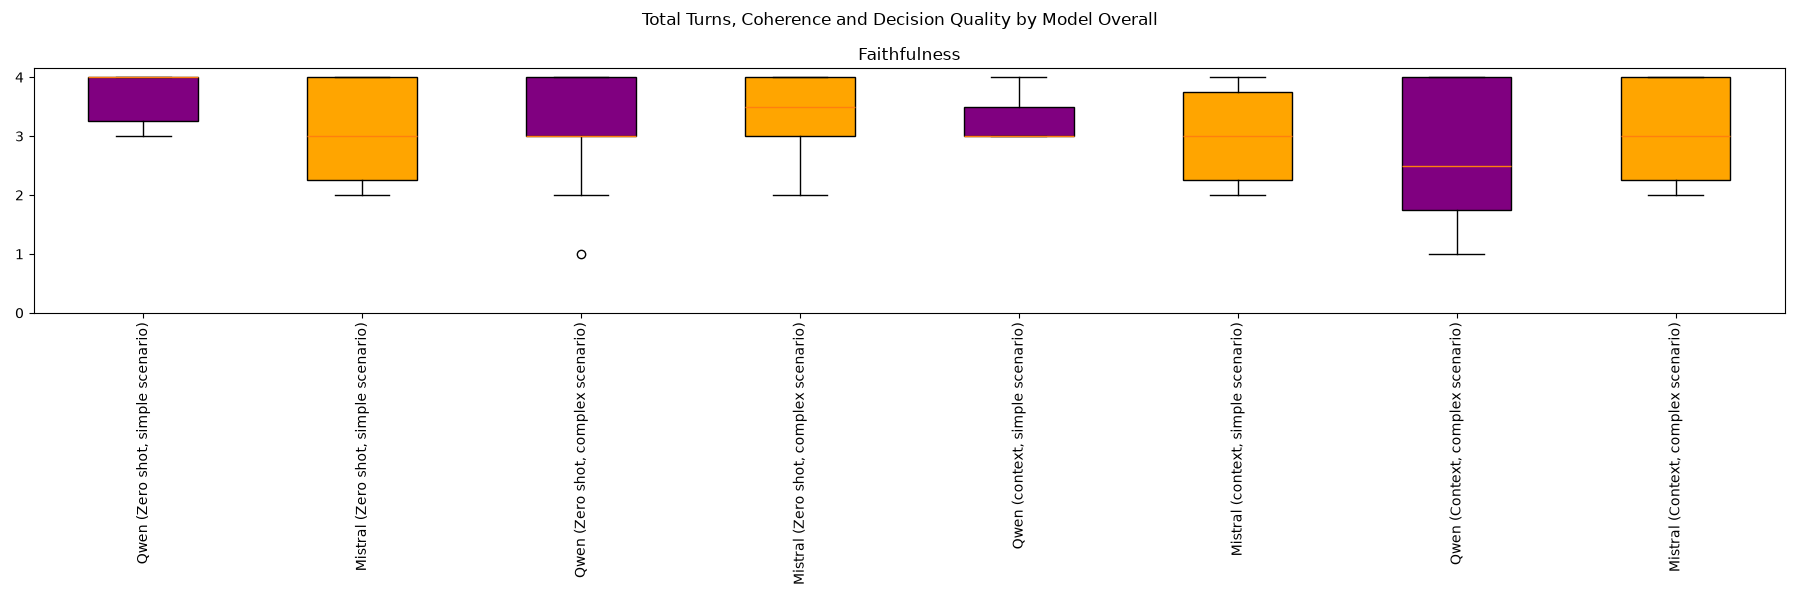
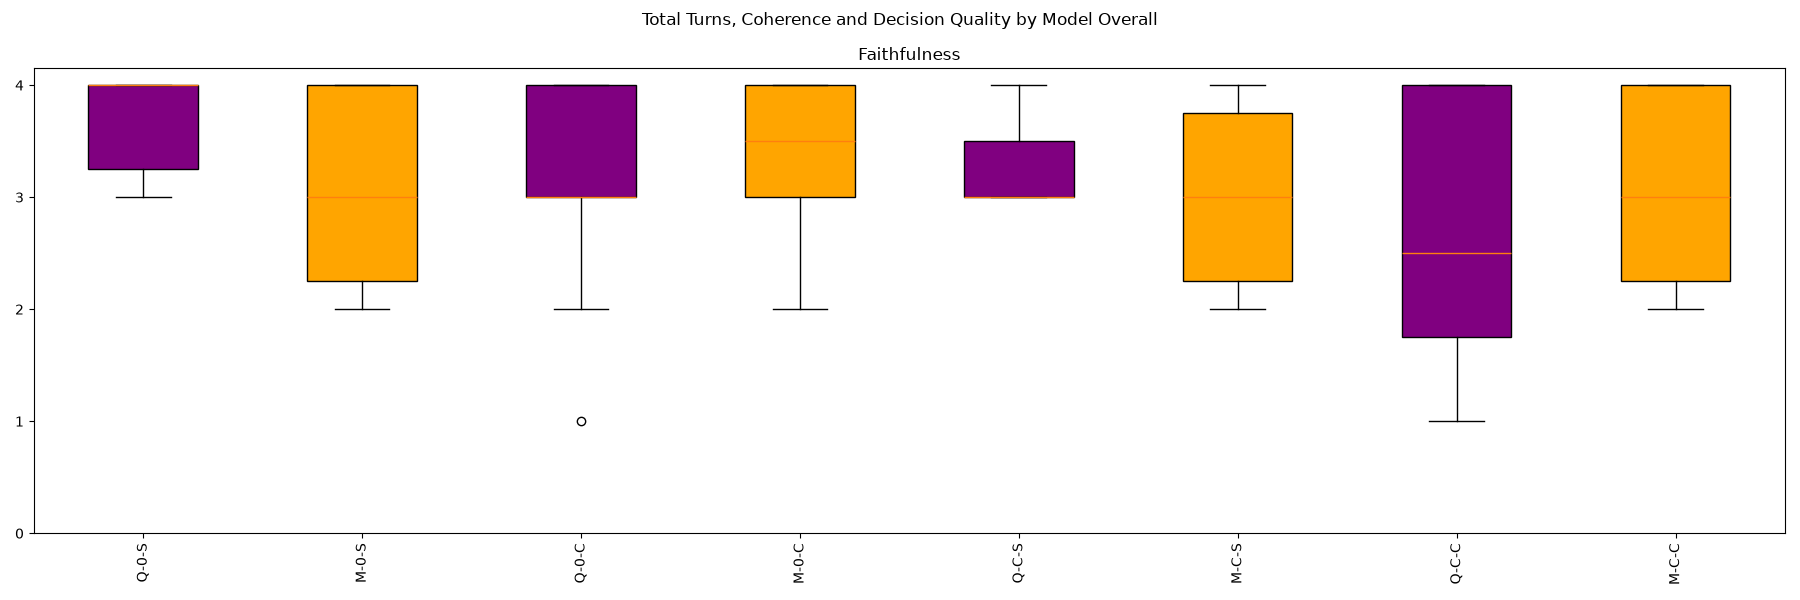
Updated number of turns with coding structure

diff --git a/number_turns.py b/number_turns.py
@@ -31,10 +31,11 @@ print(turn_count_reasoning)
 fig, ax = plt.subplots(figsize=(18,6))
 
 
+labels = ["Q-0-S", "M-0-S", "Q-0-C", "M-0-C", "Q-C-S", "M-C-S", "Q-C-C", "M-C-C"]
 
 
 # Row one
-ax1 = ax.boxplot([turn_count_reasoning.loc[(turn_count_reasoning["Scenario"] == "Simple") & (turn_count_reasoning["Strategy"] == "Zero")]["Total Turns"], turn_count_non_reasoning.loc[(turn_count_non_reasoning["Scenario"] == "Simple") & (turn_count_non_reasoning["Strategy"] == "Zero")]["Total Turns"], turn_count_reasoning.loc[(turn_count_reasoning["Scenario"] == "Complex") & (turn_count_reasoning["Strategy"] == "Zero")]["Total Turns"], turn_count_non_reasoning.loc[(turn_count_non_reasoning["Scenario"] == "Complex") & (turn_count_non_reasoning["Strategy"] == "Zero")]["Total Turns"], turn_count_reasoning.loc[(turn_count_reasoning["Scenario"] == "Simple") & (turn_count_reasoning["Strategy"] == "Context")]["Total Turns"], turn_count_non_reasoning.loc[(turn_count_non_reasoning["Scenario"] == "Simple") & (turn_count_non_reasoning["Strategy"] == "Context")]["Total Turns"], turn_count_reasoning.loc[(turn_count_reasoning["Scenario"] == "Complex") & (turn_count_reasoning["Strategy"] == "Context")]["Total Turns"], turn_count_non_reasoning.loc[(turn_count_non_reasoning["Scenario"] == "Complex") & (turn_count_non_reasoning["Strategy"] == "Context")]["Total Turns"] ], tick_labels=["Qwen (Zero shot, simple scenario)", "Mistral (Zero shot, simple scenario)", "Qwen (Zero shot, complex scenario)", "Mistral (Zero shot, complex scenario)", "Qwen (context, simple scenario)", "Mistral (context, simple scenario)", "Qwen (Context, complex scenario)", "Mistral (Context, complex scenario)"], patch_artist=True)
+ax1 = ax.boxplot([turn_count_reasoning.loc[(turn_count_reasoning["Scenario"] == "Simple") & (turn_count_reasoning["Strategy"] == "Zero")]["Total Turns"], turn_count_non_reasoning.loc[(turn_count_non_reasoning["Scenario"] == "Simple") & (turn_count_non_reasoning["Strategy"] == "Zero")]["Total Turns"], turn_count_reasoning.loc[(turn_count_reasoning["Scenario"] == "Complex") & (turn_count_reasoning["Strategy"] == "Zero")]["Total Turns"], turn_count_non_reasoning.loc[(turn_count_non_reasoning["Scenario"] == "Complex") & (turn_count_non_reasoning["Strategy"] == "Zero")]["Total Turns"], turn_count_reasoning.loc[(turn_count_reasoning["Scenario"] == "Simple") & (turn_count_reasoning["Strategy"] == "Context")]["Total Turns"], turn_count_non_reasoning.loc[(turn_count_non_reasoning["Scenario"] == "Simple") & (turn_count_non_reasoning["Strategy"] == "Context")]["Total Turns"], turn_count_reasoning.loc[(turn_count_reasoning["Scenario"] == "Complex") & (turn_count_reasoning["Strategy"] == "Context")]["Total Turns"], turn_count_non_reasoning.loc[(turn_count_non_reasoning["Scenario"] == "Complex") & (turn_count_non_reasoning["Strategy"] == "Context")]["Total Turns"] ], tick_labels=labels, patch_artist=True)
 ax.set_title("Faithfulness")
 
 
